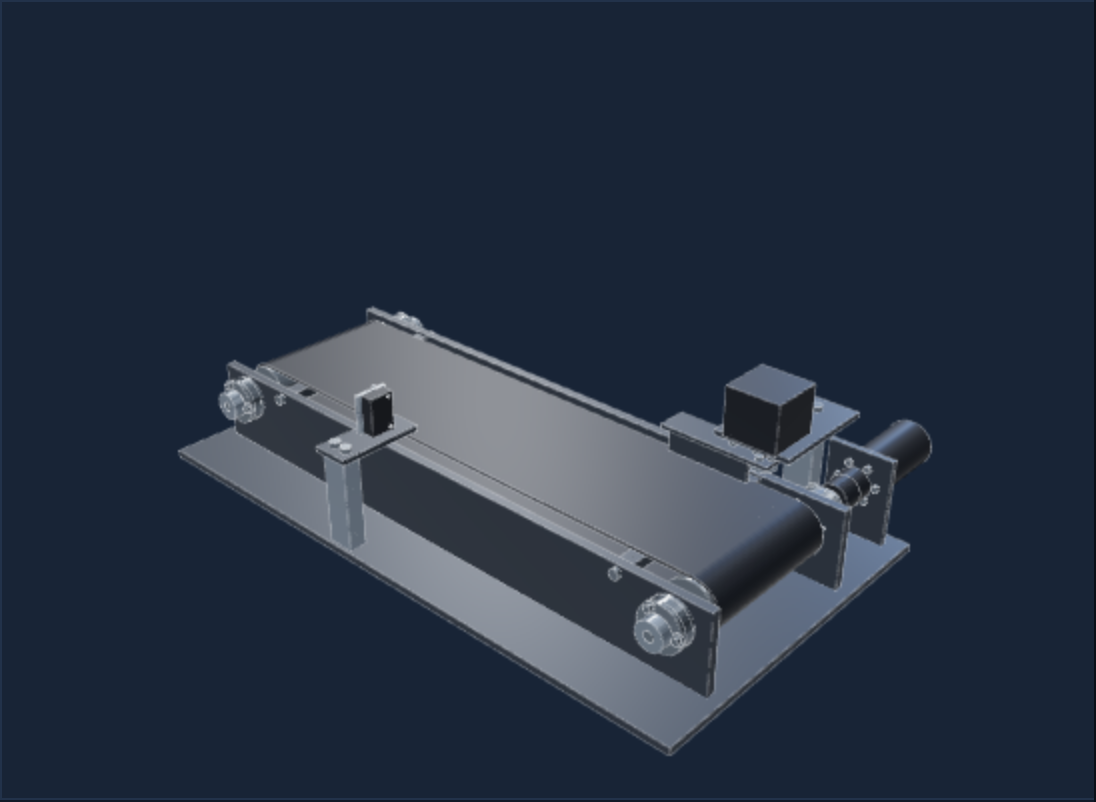
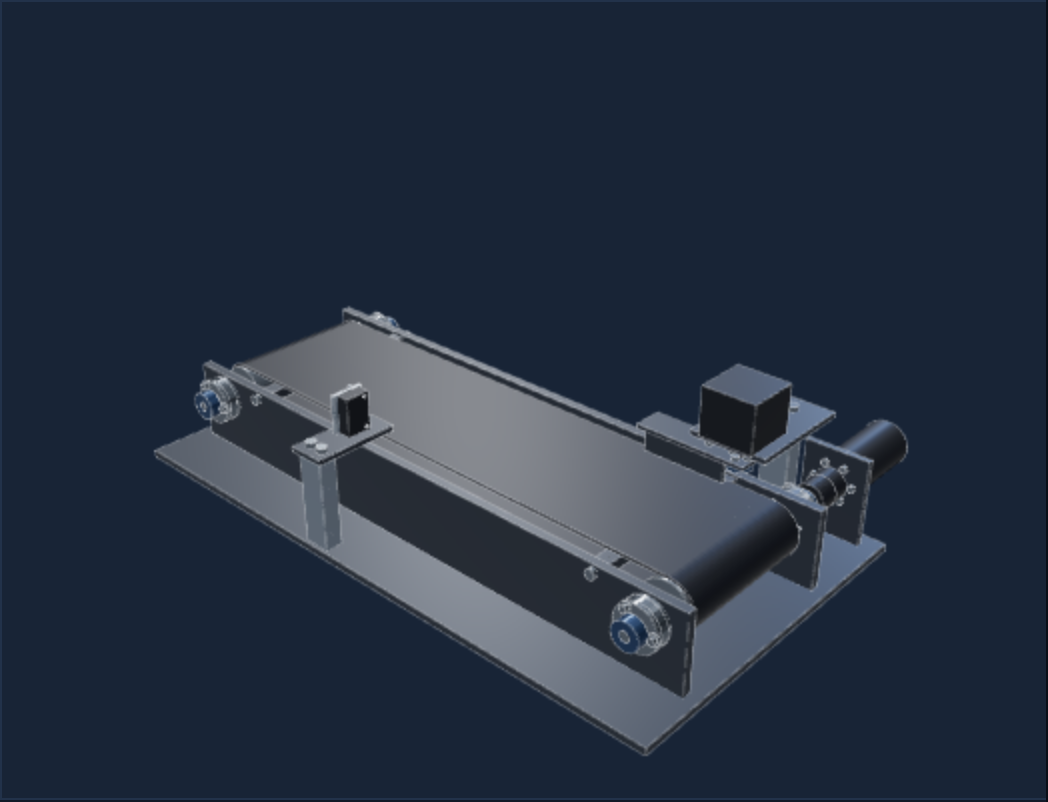
Home: assistant on the hero drone, two panels, shared renders
The assistant marker points at the front-left arm, the hero fits the fold,
decor is fewer and larger, and the panels are cut to two. Gallery and starter
images are re-rendered with the same lighting as the hero.

diff --git a/src/components/HeroDrone.tsx b/src/components/HeroDrone.tsx
@@ -1,6 +1,6 @@
 import { Component, useEffect, useMemo, useRef, useState, type ReactNode } from "react";
 import { Canvas, useFrame, useThree } from "@react-three/fiber";
-import { ContactShadows } from "@react-three/drei";
+import { ContactShadows, Edges } from "@react-three/drei";
 import * as THREE from "three";
 import { RoomEnvironment } from "three/addons/environments/RoomEnvironment.js";
 import { featuredGeometry } from "../lib/partGeometry";
@@ -45,7 +45,7 @@ function materialFor(part: Part, twill: THREE.Texture): THREE.MeshPhysicalMateri
   if (k === "carbon") {
     const map = twill.clone(); map.needsUpdate = true;
     map.repeat.set(Math.max(1, part.size[0] / 14), Math.max(1, part.size[2] / 14));
-    return new THREE.MeshPhysicalMaterial({ color: "#ffffff", map, roughnessMap: map, metalness: 0.25, roughness: 0.5, clearcoat: 0.8, clearcoatRoughness: 0.18 });
+    return new THREE.MeshPhysicalMaterial({ color: "#ffffff", map, roughnessMap: map, metalness: 0.12, roughness: 0.55, clearcoat: 0.5, clearcoatRoughness: 0.3 });
   }
   const spec: Record<Exclude<Kind, "carbon">, THREE.MeshPhysicalMaterialParameters> = {
     motor: { color: "#15181d", metalness: 0.75, roughness: 0.3 },
@@ -83,7 +83,7 @@ function PartMesh({ part, twill, disc, still, highlighted, dimmed, offset, onHov
   useEffect(() => () => { geometry.dispose(); material.dispose(); blurMaterial.dispose(); }, [geometry, material, blurMaterial]);
   useEffect(() => {
     material.emissive.set(highlighted ? colors.primary : "#000000");
-    material.emissiveIntensity = highlighted ? 0.45 : 0;
+    material.emissiveIntensity = highlighted ? 0.18 : 0;
     const prop = kindOf(part) === "prop";
     material.transparent = dimmed || prop; material.opacity = dimmed ? 0.14 : prop ? 0.88 : 1; material.depthWrite = !dimmed;
     material.needsUpdate = true;
@@ -109,7 +109,9 @@ function PartMesh({ part, twill, disc, still, highlighted, dimmed, offset, onHov
     </group>;
   }
   return <group ref={holder} position={home} rotation={[rot[0], rot[1], rot[2]]}>
-    <mesh geometry={geometry} material={material} castShadow receiveShadow {...events}/>
+    <mesh geometry={geometry} material={material} castShadow receiveShadow {...events}>
+      {highlighted && <Edges threshold={20} color={colors.primary} lineWidth={2}/>}
+    </mesh>
     {kindOf(part) === "motor" && !dimmed && <mesh position={[0, -part.size[1] / 2 + 3, 0]} material={copper}><cylinderGeometry args={[part.size[0] / 2 - 1.2, part.size[0] / 2 - 1.2, 4, 48]}/></mesh>}
     {kindOf(part) === "battery" && !dimmed && <>
       <mesh position={[part.size[0] * 0.28, 0, 0]} material={band}><boxGeometry args={[4, part.size[1] + 0.4, part.size[2] + 0.4]}/></mesh>
@@ -119,9 +121,13 @@ function PartMesh({ part, twill, disc, still, highlighted, dimmed, offset, onHov
   </group>;
 }
 
-function Drone({ parts, still, exploded, highlight, dimOthers, idle, onHover, onReady }: {
-  parts: Part[]; still: boolean; exploded: boolean; highlight: string[]; dimOthers: boolean; idle: boolean; onHover?: Hover; onReady: () => void;
+function Drone({ parts, still, exploded, highlight, dimOthers, idle, onHover, onReady, assistant, agentEl }: {
+  parts: Part[]; still: boolean; exploded: boolean; highlight: string[]; dimOthers: boolean; idle: boolean; onHover?: Hover; onReady: () => void; assistant?: { partId: string; label: string };
+  agentEl?: React.RefObject<HTMLSpanElement | null>;
 }) {
+  const pointed = assistant ? parts.find(p => p.id === assistant.partId) : undefined;
+  const { camera, size } = useThree();
+  const probe = useMemo(() => new THREE.Vector3(), []);
   const twill = useMemo(twillTexture, []), disc = useMemo(discTexture, []);
   const group = useRef<THREE.Group>(null);
   const offset = useRef(exploded ? 1 : 0), frames = useRef(0);
@@ -132,14 +138,25 @@ function Drone({ parts, still, exploded, highlight, dimOthers, idle, onHover, on
     const target = exploded ? 1 : 0;
     offset.current = still ? target : THREE.MathUtils.damp(offset.current, target, 4, delta);
     const g = group.current; if (!g) return;
-    if (still || !idle) { g.rotation.y = -0.55; g.position.y = 0; return; }
-    const t = clock.getElapsedTime();
-    g.rotation.y = -0.55 + Math.sin(t * 0.22) * 0.5;
-    g.position.y = Math.sin(t * 1.1) * 4;
+    if (still || !idle) { g.rotation.y = -0.55; g.position.y = 0; }
+    else {
+      const t = clock.getElapsedTime();
+      g.rotation.y = -0.55 + Math.sin(t * 0.22) * 0.5;
+      g.position.y = Math.sin(t * 1.1) * 4;
+    }
+    // Keep the assistant's marker on the arm it points at, in screen space.
+    const el = agentEl?.current;
+    if (pointed && el) {
+      g.updateMatrixWorld();
+      probe.set(pointed.position[0], pointed.position[1] - 30 + 4, pointed.position[2]);
+      g.localToWorld(probe); probe.project(camera);
+      el.style.transform = `translate(${((probe.x + 1) / 2) * size.width}px, ${((1 - probe.y) / 2) * size.height}px)`;
+    }
   });
   return <group ref={group}>
     <group position={[0, -30, 0]}>{parts.map(part => <PartMesh key={part.id} part={part} twill={twill} disc={disc} still={still}
-      highlighted={highlight.includes(part.id)} dimmed={dimOthers && highlight.length > 0 && !highlight.includes(part.id)} offset={offset} onHover={onHover}/>)}</group>
+      highlighted={highlight.includes(part.id)} dimmed={dimOthers && highlight.length > 0 && !highlight.includes(part.id)} offset={offset} onHover={onHover}/>)}
+</group>
   </group>;
 }
 
@@ -156,8 +173,20 @@ function StillFallback({ className }: { className: string }) {
   return <div className={"hero-drone is-image " + className}><img src="/previews/drone.png" alt="Camera drone, 3D model" width="650" height="445"/></div>;
 }
 
-export function DroneStage({ parts, still, exploded = false, highlight = [], dimOthers = false, idle = true, camera = [215, 150, 255], target = [0, -14, 0], floor = false, hoverLabels = false, className = "" }: {
-  parts: Part[]; still: boolean; exploded?: boolean; highlight?: string[]; dimOthers?: boolean; idle?: boolean; camera?: Vec3; target?: Vec3; floor?: boolean; hoverLabels?: boolean; className?: string;
+// On narrow stages the camera steps back so the whole drone stays in frame.
+function FitWidth({ camera: base, target }: { camera: Vec3; target: Vec3 }) {
+  const { camera, size, invalidate } = useThree();
+  useEffect(() => {
+    const factor = Math.max(1, 1.8 / Math.max(0.5, size.width / Math.max(1, size.height)));
+    camera.position.set(base[0] * factor, base[1] * factor, base[2] * factor);
+    camera.lookAt(...target);
+    invalidate();
+  }, [camera, size.width, size.height, base[0], base[1], base[2], target[0], target[1], target[2], invalidate]);
+  return null;
+}
+
+export function DroneStage({ parts, still, exploded = false, highlight = [], dimOthers = false, idle = true, camera = [215, 150, 255], target = [0, -14, 0], floor = false, hoverLabels = false, className = "", assistant, fitWidth = false }: {
+  parts: Part[]; still: boolean; exploded?: boolean; highlight?: string[]; dimOthers?: boolean; idle?: boolean; camera?: Vec3; target?: Vec3; floor?: boolean; hoverLabels?: boolean; className?: string; assistant?: { partId: string; label: string }; fitWidth?: boolean;
 }) {
   const [hover, setHover] = useState<{ name: string; x: number; y: number } | null>(null);
   const [ready, setReady] = useState(false), [visible, setVisible] = useState(true);
@@ -168,29 +197,32 @@ export function DroneStage({ parts, still, exploded = false, highlight = [], dim
     io.observe(host.current); return () => io.disconnect();
   }, []);
   const live = !still && visible;
+  const agentEl = useRef<HTMLSpanElement>(null);
   const [canRender] = useState(webglAvailable);
   if (!canRender) return <StillFallback className={className}/>;
   return <StageBoundary fallback={<StillFallback className={className}/>}><div ref={host} className={"hero-drone " + className} data-ready={ready} data-still={still}>
-    <Canvas shadows dpr={[1, 1.75]} gl={{ antialias: true, alpha: true, preserveDrawingBuffer: true }}
+    <Canvas shadows dpr={[1, 1.75]} gl={{ antialias: true, alpha: true, preserveDrawingBuffer: true, toneMapping: THREE.ACESFilmicToneMapping, toneMappingExposure: 1.08 }}
       camera={{ position: camera, fov: 30, near: 10, far: 4000 }}
       frameloop={live ? "always" : "demand"}
       onCreated={({ camera: c }) => c.lookAt(...target)}
       onPointerMissed={() => setHover(null)}>
       <StudioEnvironment/>
+      {fitWidth && <FitWidth camera={camera} target={target}/>}
       <ambientLight intensity={0.15}/>
-      <directionalLight position={[220, 420, 260]} intensity={1.6} castShadow shadow-mapSize={[1024, 1024]}
+      <directionalLight position={[220, 420, 260]} intensity={2.1} castShadow shadow-mapSize={[1024, 1024]}
         shadow-camera-left={-260} shadow-camera-right={260} shadow-camera-top={260} shadow-camera-bottom={-260}/>
-      <directionalLight position={[-320, 160, -260]} intensity={1.4} color={colors.primary}/>
+      <directionalLight position={[-320, 160, -260]} intensity={2.0} color={colors.primary}/>
       <directionalLight position={[300, 60, -200]} intensity={0.5}/>
-      <Drone parts={parts} still={still} exploded={exploded} highlight={highlight} dimOthers={dimOthers} idle={idle} onReady={() => setReady(true)}
+      <Drone parts={parts} still={still} exploded={exploded} highlight={highlight} dimOthers={dimOthers} idle={idle} assistant={assistant} agentEl={agentEl} onReady={() => setReady(true)}
         onHover={hoverLabels ? (part, x, y) => setHover(part ? { name: part.name, x: x ?? 0, y: y ?? 0 } : null) : undefined}/>
       {floor && <mesh rotation={[-Math.PI / 2, 0, 0]} position={[0, -34.5, 0]} receiveShadow><circleGeometry args={[260, 64]}/><meshStandardMaterial color="#1d2633" roughness={0.9} transparent opacity={0.85}/></mesh>}
       <ContactShadows position={[0, -34, 0]} scale={520} far={120} blur={2.6} opacity={0.6} resolution={512} color="#000000" frames={live ? Infinity : 1}/>
     </Canvas>
+    {assistant && <span ref={agentEl} className="hero-agent-anchor" aria-hidden="true"><span className={"hero-agent" + (still ? " is-still" : "")}><i/><b>{assistant.label}</b></span></span>}
     {hover && <span className="hero-drone-label" style={{ left: hover.x, top: hover.y }} aria-hidden="true"><i/>Pointing at: {hover.name}</span>}
   </div></StageBoundary>;
 }
 
 export default function HeroDrone({ parts, still }: { parts: Part[]; still: boolean }) {
-  return <DroneStage parts={parts} still={still} hoverLabels/>;
+  return <DroneStage parts={parts} still={still} hoverLabels fitWidth assistant={{ partId: "arm-front-left", label: "Arm, front left" }}/>;
 }

diff --git a/src/components/LandingPanels.tsx b/src/components/LandingPanels.tsx
@@ -1,22 +1,25 @@
 import { useMemo } from "react";
-import { Check, ChevronRight, FileBox, Mic, Ruler, Smartphone } from "lucide-react";
+import { ChevronRight, Mic, Ruler, Smartphone } from "lucide-react";
 import type { Navigate } from "../App";
 import { heroProduct } from "../lib/heroProduct";
 import { DroneStage } from "./HeroDrone";
 
-// Four split panels in the order a change happens: point and say, check, accept, see it in your room.
-// Each panel shows the real interface pattern on a tinted grid, not a picture of it.
+// Two panels in the order a change happens: point, say and check it holds; then see it in your room.
+// Each shows the real interface pattern on a tinted grid, not a picture of it.
 export default function LandingPanels({ navigate, still = false }: { navigate: Navigate; still?: boolean }) {
   const parts = useMemo(() => heroProduct.parts().filter(part => part.role !== "reference"), []);
   return <section className="lp-panels" aria-label="What happens when you ask for a change">
-    <article className="lp-panel">
+    <article className="lp-panel lp-panel-wide">
       <div className="lp-panel-copy">
-        <p className="eyebrow">1. Point and say</p>
-        <h2>Talk to it like you would to a designer.</h2>
-        <p>Point at the part you mean and say what you want. The assistant names the part back to you, proposes the change in numbers, and waits for your yes.</p>
-        <ul className="lp-checks"><li><Check size={16}/>Works with your voice or the keyboard</li><li><Check size={16}/>Shows exactly which feature it will change</li></ul>
+        <h2>Point at it, say it, and see that it still holds.</h2>
+        <p>The assistant names the part back to you and proposes the change in numbers. Before you say yes, the same strength test runs on the part before and after, under the same load.</p>
+        <details className="lp-how">
+            <summary>How we checked</summary>
+            <p>Under the same 1 kgf (9.8 N) peak motor thrust, upward at the motor end, Arm, front right bends 70% less (1.19 mm to 0.36 mm) and its typical stress drops 52%.</p>
+            <p>It is a strength simulation of the one arm, held where it meets the frame, refined until the result stopped changing. Holding the arm fully fixed at the frame is a simplification.</p>
+          </details>
       </div>
-      <div className="lp-panel-backdrop" aria-hidden="true">
+      <div className="lp-panel-backdrop lp-wide-backdrop" aria-hidden="true">
         <div className="lp-card lp-chat">
           <p className="lp-pointing"><span className="lp-you-dot"/>Pointing at: <strong>{heroProduct.focusPartName}</strong></p>
           <p className="lp-said"><Mic size={15}/>“Make these arms stiffer.”</p>
@@ -27,23 +30,8 @@ export default function LandingPanels({ navigate, still = false }: { navigate: N
             <div className="lp-fake-actions"><span className="lp-fake-button is-primary">Preview</span><span className="lp-fake-button">Dismiss</span></div>
           </div>
         </div>
-      </div>
-    </article>
-
-    <article className="lp-panel is-flipped">
-      <div className="lp-panel-copy">
-        <p className="eyebrow">2. Check that it still holds</p>
-        <h2>See how much less it bends before you say yes.</h2>
-        <p>Every change to a part that carries weight gets the same strength test before and after, under the load you set. You get one plain number, not a wall of charts.</p>
-        <details className="lp-how">
-          <summary>How we checked</summary>
-          <p>Under the same 1 kgf (9.8 N) peak motor thrust, upward at the motor end, Arm, front right bends 70% less (1.19 mm to 0.36 mm) and its typical stress drops 52%.</p>
-          <p>It is a strength simulation of the one arm, held where it meets the frame, refined until the result stopped changing. Holding the arm fully fixed at the frame is a simplification.</p>
-        </details>
-      </div>
-      <div className="lp-panel-backdrop" aria-hidden="true">
         <div className="lp-card lp-proof">
-          <p className="lp-proof-label">Arm, front right, 4 mm to 6 mm</p>
+          <p className="lp-proof-label">Checked on Arm, front right: 4 mm to 6 mm</p>
           <p className="lp-proof-big"><strong>70%</strong> less bending</p>
           <p className="lp-proof-load"><Ruler size={15}/>Same test both times: 1 kgf of motor thrust at the tip</p>
           <div className="lp-bars">
@@ -54,35 +42,13 @@ export default function LandingPanels({ navigate, still = false }: { navigate: N
       </div>
     </article>
 
-    <article className="lp-panel">
+    <article className="lp-panel lp-panel-room">
       <div className="lp-panel-copy">
-        <p className="eyebrow">3. Accept the change</p>
-        <h2>One yes updates everything that depends on it.</h2>
-        <p>The parts list, the assembly steps and the build files all follow the accepted design, so nothing is left out of date.</p>
-        <ul className="lp-checks"><li><Check size={16}/>CAD files, parts list and assembly steps in one download</li><li><Check size={16}/>Earlier versions stay one click away</li></ul>
-      </div>
-      <div className="lp-panel-backdrop" aria-hidden="true">
-        <div className="lp-card lp-files">
-          <p className="lp-files-head"><FileBox size={18}/><strong>Build files</strong><span className="lp-files-state">Up to date</span></p>
-          <table><tbody>
-            <tr className="is-changed"><td>Arms, 4 of them</td><td>6 mm carbon fibre</td></tr>
-            <tr><td>Bottom frame plate</td><td>3 mm carbon fibre</td></tr>
-            <tr><td>Top frame plate</td><td>2 mm carbon fibre</td></tr>
-            <tr><td>Motors 2306, 4 of them</td><td>Bought</td></tr>
-          </tbody></table>
-          <p className="lp-files-foot">CAD files, parts list and assembly steps</p>
-        </div>
-      </div>
-    </article>
-
-    <article className="lp-panel is-flipped">
-      <div className="lp-panel-copy">
-        <p className="eyebrow">4. See it in your room</p>
         <h2>Put it on your desk before you make it.</h2>
-        <p>Open the design on your phone and place it at real size, so you know it fits before you print, cut or order a single part.</p>
+        <p>Open the design on your phone and place it at real size, so you can see whether it fits before you print, cut or order a single part.</p>
         <button className="button primary" onClick={() => navigate("/new")}>Start a design <ChevronRight size={18}/></button>
       </div>
-      <div className="lp-panel-backdrop">
+      <div className="lp-panel-backdrop lp-room-backdrop">
         <div className="lp-phone" aria-hidden="true">
           <div className="lp-phone-screen">
             <DroneStage parts={parts} still={still} floor camera={[480, 270, 560]} target={[0, -14, 0]} className="is-phone"/>

diff --git a/src/components/landing-home.css b/src/components/landing-home.css
@@ -254,3 +254,58 @@
 
 .lp-story-model .hero-drone,.lp-phone-screen .hero-drone {position:absolute;inset:0;width:100%;height:100%;margin:0;}
 .lp-phone-screen {background:var(--surface);}
+
+/* Revision: more air round the drone, fewer and larger decor pieces, the assistant on the drone */
+:root .lp-hero {padding-top:84px;padding-bottom:40px;}
+:root .lp-sub {margin-top:16px;}
+.hero-drone {height:clamp(260px,33vh,320px);margin:12px 0 14px;}
+.lp-field textarea::placeholder,:root .lp-field textarea::placeholder {color:var(--text);opacity:.82;}
+.lp-decor {filter:none;}
+.lp-d-prop {left:-80px;top:9%;width:clamp(240px,23vw,340px);}
+.lp-d-motor {left:-30px;top:56%;width:clamp(180px,16vw,240px);}
+.lp-d-bearing {left:9%;top:auto;bottom:3%;width:150px;filter:blur(2.5px);opacity:.75;}
+.lp-d-gear {right:-70px;top:8%;width:clamp(230px,22vw,320px);}
+.lp-d-bolt {right:-40px;top:54%;width:clamp(190px,18vw,260px);}
+.lp-d-spring {right:10%;top:auto;bottom:4%;width:140px;filter:blur(2.5px);opacity:.75;}
+.hero-agent {display:inline-flex;align-items:center;gap:8px;white-space:nowrap;animation:hero-agent 7s ease-in-out infinite;}
+.hero-agent i {width:22px;height:22px;border-radius:50%;background:var(--warm);border:3px solid var(--bg);box-shadow:0 0 0 3px var(--warm);}
+.hero-agent b {padding:4px 10px;border-radius:8px;background:var(--warm);color:var(--on-warm);font-size:var(--s-sm);font-weight:600;}
+.hero-agent.is-still {animation:none;}
+@keyframes hero-agent {0%,12%{opacity:0;transform:translate(10px,-14px)}22%,78%{opacity:1;transform:translate(0,0)}90%,100%{opacity:0;transform:translate(0,0)}}
+@media (prefers-reduced-motion: reduce) {.hero-agent {animation:none;}}
+
+/* Two panels with different shapes and tints */
+:root .lp-panels {gap:clamp(56px,7vw,96px);}
+.lp-panel-wide {grid-template-columns:1fr;gap:28px;}
+.lp-panel-wide .lp-panel-copy {display:grid;grid-template-columns:1fr 1fr;gap:clamp(20px,4vw,56px);align-items:start;}
+.lp-panel-wide .lp-panel-copy h2 {margin-top:0;max-width:18ch;}
+.lp-panel-wide .lp-panel-copy .lp-how {grid-column:2;}
+.lp-wide-backdrop {min-height:0;display:grid;grid-template-columns:1fr 1fr;gap:clamp(16px,3vw,40px);align-items:center;justify-items:center;padding:clamp(24px,4vw,56px);}
+.lp-room-backdrop {min-height:560px;background-color:var(--surface);background-image:linear-gradient(color-mix(in srgb,var(--primary) 9%,transparent) 1px,transparent 1px),linear-gradient(90deg,color-mix(in srgb,var(--primary) 9%,transparent) 1px,transparent 1px);border-color:var(--line);}
+.lp-panel-room {grid-template-columns:1fr 1fr;}
+.lp-panel-room .lp-phone {width:min(300px,80%);}
+@media (max-width:900px) {
+  .lp-panel-wide .lp-panel-copy,.lp-wide-backdrop,.lp-panel-room {grid-template-columns:1fr;}
+  .lp-panel-wide .lp-panel-copy .lp-how {grid-column:1;}
+  .lp-room-backdrop {min-height:420px;}
+}
+
+/* The turntable build sheet sits under its section without a separate sparse panel */
+:root .landing-build-story {grid-template-columns:1fr;justify-items:center;padding-top:0;}
+:root .landing-build-copy {display:none;}
+:root .landing-build-sheet {width:min(760px,100%);}
+
+/* Gallery: the drone and the arm lead, larger */
+:root .landing-example-list .lp-example-extra {grid-column:span 2;}
+@media (max-width:1000px) {:root .landing-example-list .lp-example-extra {grid-column:span 2;}}
+@media (max-width:520px) {:root .landing-example-list .lp-example-extra {grid-column:auto;}}
+@media (max-width:640px) {
+  .lp-d-prop,.lp-d-bearing,.lp-d-spring,.lp-d-bolt {display:none;}
+  :root .lp-hero .lp-d-gear {display:none;}
+  .lp-d-motor {left:-34px;top:auto;bottom:16px;width:100px;}
+  .hero-drone {height:auto;margin:12px 0 6px;}
+}
+.hero-agent-anchor {position:absolute;left:0;top:0;z-index:3;pointer-events:none;will-change:transform;}
+.hero-agent-anchor .hero-agent {position:absolute;left:-11px;top:-11px;}
+:root .landing-build-sheet .landing-sheet-drawing {display:none;}
+:root .landing-build-sheet {padding:20px 24px;}

diff --git a/src/components/LandingStory.tsx b/src/components/LandingStory.tsx
@@ -44,7 +44,6 @@ export default function LandingStory({ navigate, still }: { navigate: Navigate; 
   return <section id="lp-story" ref={section} className={"lp-story" + (scrubbed ? " is-scrubbed" : "")} aria-labelledby="lp-story-title">
     <div className="lp-story-sticky">
       <div className="lp-story-copy">
-        <p className="eyebrow">How it works</p>
         <h2 id="lp-story-title">You point and talk. It does the modelling.</h2>
         <ol className="lp-steps">
           {STEPS.map((s, i) => <li key={s.title} className={i === step ? "is-active" : i < step ? "is-done" : ""}>
@@ -57,7 +56,7 @@ export default function LandingStory({ navigate, still }: { navigate: Navigate; 
         <button className="button primary" onClick={() => navigate("/new")}>Try it on the drone <ChevronRight size={18}/></button>
       </div>
       <div className="lp-story-stage" data-step={step}>
-        <div className="lp-story-model" aria-hidden="true"><DroneStage parts={step >= 3 ? changed : parts} still={!scrubbed} idle={false} exploded={step === 2} highlight={step === 0 ? [focus] : step <= 2 ? [...heroProduct.changedPartIds] : []} dimOthers={step === 1} camera={[470, 340, 550]} target={[0, -12, 0]}/></div>
+        <div className="lp-story-model" aria-hidden="true"><DroneStage parts={step >= 3 ? changed : parts} still={!scrubbed} idle={false} exploded={step === 2} highlight={step === 0 ? [focus] : step <= 2 ? [...heroProduct.changedPartIds] : []} camera={[360, 250, 425]} target={[0, -14, 0]}/></div>
         <div className={"lp-story-line" + (step === 1 || step === 2 ? " is-assistant" : "")} aria-live="polite">
           <span className="lp-line-dot" aria-hidden="true"/>{STEPS[step].line}
         </div>

diff --git a/src/components/LandingBuildStory.tsx b/src/components/LandingBuildStory.tsx
@@ -49,15 +49,15 @@ export default function LandingBuildStory({parts,navigate,onSize}:{parts:Part[];
       <div className="landing-example-list">
         <button className="lp-example-extra" onClick={()=>navigate('/new')} aria-label="Start with the camera drone">
           <img className="lp-example-render" src="/previews/drone.png" alt="" loading="lazy" width="650" height="450"/>
-          <span className="lp-example-name">Camera drone</span><span className="lp-example-status is-ready">Ready to try</span>
+          <span className="lp-example-name">Camera drone</span>
         </button>
         <button className="lp-example-extra" onClick={()=>navigate('/new')} aria-label="Start with the articulated camera arm">
           <img className="lp-example-render" src="/previews/arm.png" alt="" loading="lazy" width="1100" height="806"/>
-          <span className="lp-example-name">Articulated camera arm</span><span className="lp-example-status is-ready">Ready to try</span>
+          <span className="lp-example-name">Articulated camera arm</span>
         </button>
         {products.map(product=><button className="landing-example" key={product.kind} onClick={()=>navigate('/designs/'+product.kind)} aria-label={`Explore ${product.name}`}>
         <img src={`/previews/${product.kind}.png`} alt="" loading="lazy" width="1100" height={product.kind==='turntable'?1150:760}/>
-        <span>{product.name}</span><span className="lp-example-status is-ready">Ready to try</span>
+        <span>{product.name}</span>
       </button>)}
 
       </div>
